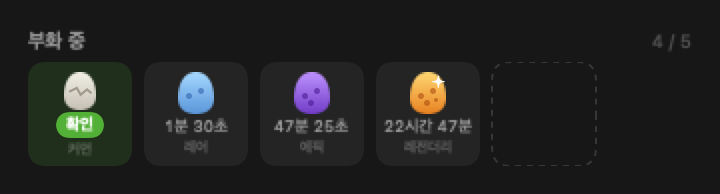
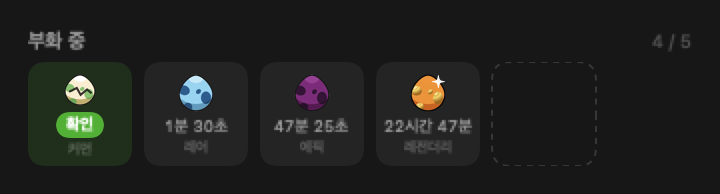
feat: replace the drawn egg with illustrated art
The eggs were SwiftUI shapes — an oval, a gradient and a few dots. Swap in
the four illustrations, which read as eggs rather than as approximations of
one, and drop EggShape now that nothing draws it. The crack stays a drawn
overlay: it marks "ready to open" rather than being part of the shell, and
per-grade cracked art would double the files.

Stripping the white background needed care twice over. A global white key
punches through the Common egg's own white highlight, so the background is
removed by flood fill from the border instead. And NSBitmapImageRep is
premultiplied, so writing (255,255,255,0) is not a transparent pixel but an
invalid one that normalises back to opaque white — which is exactly what
happened on the first pass, leaving a white box around every egg.

Guarded by tests that read the shipped files: every grade has distinct art,
all four corners are transparent, and the Common egg's interior highlight
survived.

diff --git a/Sources/PokeDexBar/UI/EggIcon.swift b/Sources/PokeDexBar/UI/EggIcon.swift
@@ -1,74 +1,30 @@
 import SwiftUI
 
-/// 등급별 알 모양. 슬롯에서 남은 시간을 읽기 전에 **무엇을 기다리고 있는지** 먼저 보이게 한다.
-/// 색만 바꾸지 않고 무늬 수도 함께 늘린다 — 색약이거나 작은 타일에서도 구분되게.
+/// 등급별 알. **그림 파일**이다(`Resources/eggs/egg-<등급>.png`) — 예전에는 SwiftUI 도형으로
+/// 껍질과 무늬를 직접 그렸는데, 손으로 그린 일러스트가 훨씬 알처럼 보인다.
 ///
-/// 전부 순수 SwiftUI 도형이다. `.brightness` 같은 CALayer 필터를 쓰면 스크린샷 생성기의
-/// 오프스크린 렌더에서 통째로 사라진다(도감 실루엣에서 실제로 겪었다).
+/// 금 간 표시(`cracked`)만 그림 위에 도형으로 얹는다. 등급마다 금 간 그림을 따로 두면 파일이
+/// 여덟 장이 되고, 금은 "지금 확인할 수 있다"는 상태 표시라 껍질 무늬와 성격이 다르다.
+///
+/// 그림 로딩은 `RibbonIcon` 과 같은 방식이다 — 배포 `.app` 에서는 `Bundle.module` 을 못 쓴다.
 struct EggIcon: View {
     let grade: Grade
     var size: CGFloat = 20
     /// 부화 시각이 지났으면 금이 간 모습으로 — 슬롯을 훑을 때 "확인해야 할 것"이 즉시 보인다.
     var cracked: Bool = false
 
-    /// 껍질 색(위·아래). 위가 밝고 아래가 짙어 입체로 보인다.
-    private var shell: (Color, Color) {
-        switch grade {
-        case .common: (Color(red: 0.96, green: 0.95, blue: 0.92),
-                       Color(red: 0.82, green: 0.80, blue: 0.76))
-        case .rare: (Color(red: 0.71, green: 0.88, blue: 1.00),
-                     Color(red: 0.42, green: 0.66, blue: 0.88))
-        case .epic: (Color(red: 0.80, green: 0.66, blue: 1.00),
-                     Color(red: 0.53, green: 0.34, blue: 0.82))
-        case .legendary: (Color(red: 1.00, green: 0.87, blue: 0.52),
-                          Color(red: 0.93, green: 0.58, blue: 0.16))
-        }
-    }
-
-    /// 무늬 색 — 껍질보다 진하게.
-    private var speckle: Color {
-        switch grade {
-        case .common: Color(red: 0.66, green: 0.63, blue: 0.58)
-        case .rare: Color(red: 0.20, green: 0.45, blue: 0.72)
-        case .epic: Color(red: 0.34, green: 0.16, blue: 0.62)
-        case .legendary: Color(red: 0.72, green: 0.35, blue: 0.03)
-        }
-    }
-
-    /// 등급이 오를수록 무늬가 늘어난다 — 색과 별개로 세어서 구분할 수 있게.
-    private var speckleCount: Int {
-        switch grade {
-        case .common: 0
-        case .rare: 2
-        case .epic: 3
-        case .legendary: 4
-        }
-    }
-
-    /// 무늬 위치(알 폭·높이에 대한 비율)와 지름 비율. 난수를 안 쓴다 — 같은 등급의 알은
-    /// 언제나 같은 얼굴이어야 슬롯을 훑을 때 무늬 수가 정보로 읽힌다.
-    nonisolated static func speckleLayout(_ index: Int) -> (x: Double, y: Double, r: Double) {
-        let table: [(Double, Double, Double)] = [
-            (0.34, 0.58, 0.17), (0.63, 0.44, 0.13), (0.48, 0.74, 0.11), (0.70, 0.66, 0.09),
-        ]
-        return table[index % table.count]
-    }
+    /// 금 색 — 껍질 위에 얹히므로 어느 등급에서도 보이도록 어둡게.
+    private var crackColor: Color { Color(red: 0.16, green: 0.14, blue: 0.13) }
 
     var body: some View {
         ZStack {
-            // 알 실루엣 — 위가 좁고 아래가 둥근 타원.
-            EggShape()
-                .fill(LinearGradient(colors: [shell.0, shell.1],
-                                     startPoint: .top, endPoint: .bottom))
-            ForEach(0..<speckleCount, id: \.self) { index in
-                let spot = Self.speckleLayout(index)
-                Circle()
-                    .fill(speckle.opacity(0.55))
-                    .frame(width: size * spot.r, height: size * spot.r)
-                    .offset(x: size * (spot.x - 0.5), y: size * (spot.y - 0.5))
+            if let image = Self.image(for: grade) {
+                Image(nsImage: image)
+                    .resizable().interpolation(.high)
+                    .scaledToFit()
             }
             if cracked {
-                CrackShape().stroke(speckle.opacity(0.85), lineWidth: max(1, size * 0.06))
+                CrackShape().stroke(crackColor.opacity(0.9), lineWidth: max(1, size * 0.055))
             }
             if grade == .legendary {
                 // 전설만 반짝임 하나 — 슬롯 줄에서 눈이 먼저 가는 자리가 하나는 있어야 한다.
@@ -80,28 +36,33 @@ struct EggIcon: View {
         }
         .frame(width: size * 0.82, height: size)
     }
-}
 
-/// 알 윤곽 — 아래가 크고 위가 좁은 달걀형.
-struct EggShape: Shape {
-    func path(in rect: CGRect) -> Path {
-        var path = Path()
-        let w = rect.width, h = rect.height
-        path.move(to: CGPoint(x: rect.midX, y: rect.minY))
-        path.addCurve(to: CGPoint(x: rect.maxX, y: rect.minY + h * 0.62),
-                      control1: CGPoint(x: rect.midX + w * 0.34, y: rect.minY),
-                      control2: CGPoint(x: rect.maxX, y: rect.minY + h * 0.28))
-        path.addCurve(to: CGPoint(x: rect.midX, y: rect.maxY),
-                      control1: CGPoint(x: rect.maxX, y: rect.minY + h * 0.88),
-                      control2: CGPoint(x: rect.midX + w * 0.30, y: rect.maxY))
-        path.addCurve(to: CGPoint(x: rect.minX, y: rect.minY + h * 0.62),
-                      control1: CGPoint(x: rect.midX - w * 0.30, y: rect.maxY),
-                      control2: CGPoint(x: rect.minX, y: rect.minY + h * 0.88))
-        path.addCurve(to: CGPoint(x: rect.midX, y: rect.minY),
-                      control1: CGPoint(x: rect.minX, y: rect.minY + h * 0.28),
-                      control2: CGPoint(x: rect.midX - w * 0.34, y: rect.minY))
-        path.closeSubpath()
-        return path
+    /// 등급별 그림. 한 번 읽으면 캐시한다 — 박스·슬롯 그리드가 칸마다 디스크를 때리지 않게.
+    @MainActor private static var cache: [Grade: NSImage] = [:]
+
+    @MainActor static func image(for grade: Grade) -> NSImage? {
+        if let cached = cache[grade] { return cached }
+        guard let url = resourceURL(for: grade), let image = NSImage(contentsOf: url) else {
+            return nil
+        }
+        cache[grade] = image
+        return image
+    }
+
+    /// 리소스 번들 위치. 배포 `.app` 에서 `Bundle.module` 이 찾는 자리(번들 루트)에는 번들을 둘 수
+    /// 없다 — codesign 이 거부한다. 그래서 서명 가능한 `Contents/Resources/` 를 직접 찾는다.
+    /// (`RibbonIcon.resourceURL` 과 같은 이유·같은 모양.)
+    nonisolated static func resourceURL(for grade: Grade) -> URL? {
+        let name = "egg-\(grade.rawValue)"
+        guard AppEnv.isBundledApp else {
+            return Bundle.module.url(forResource: name, withExtension: "png", subdirectory: "eggs")
+                ?? Bundle.module.url(forResource: name, withExtension: "png")
+        }
+        let bundlePath = Bundle.main.bundleURL
+            .appendingPathComponent("Contents/Resources/PokeDexBar_PokeDexBar.bundle")
+        guard let bundle = Bundle(path: bundlePath.path) else { return nil }
+        return bundle.url(forResource: name, withExtension: "png", subdirectory: "eggs")
+            ?? bundle.url(forResource: name, withExtension: "png")
     }
 }
 

diff --git a/Tests/PokeDexBarTests/RevealMotionTests.swift b/Tests/PokeDexBarTests/RevealMotionTests.swift
@@ -119,3 +119,49 @@ final class HatchRevealTests: XCTestCase {
         XCTAssertGreaterThan(host.fittingSize.height, 0)
     }
 }
+
+/// 알 그림 — 등급마다 파일이 하나씩 있어야 한다. 하나라도 없으면 그 등급 알이 **아무것도 안
+/// 그려진 채** 슬롯에 앉는다(`EggIcon` 은 그림이 없으면 조용히 비운다).
+@MainActor
+final class EggArtTests: XCTestCase {
+    func testEveryGradeHasArt() {
+        for grade in Grade.allCases {
+            XCTAssertNotNil(EggIcon.resourceURL(for: grade), "\(grade) 알 그림 경로가 없다")
+            XCTAssertNotNil(EggIcon.image(for: grade), "\(grade) 알 그림을 못 읽는다")
+        }
+    }
+
+    /// 등급마다 다른 그림이어야 한다 — 같은 파일을 가리키면 슬롯에서 등급을 구분할 수 없다.
+    func testGradesUseDistinctArt() {
+        let names = Grade.allCases.compactMap { EggIcon.resourceURL(for: $0)?.lastPathComponent }
+        XCTAssertEqual(Set(names).count, Grade.allCases.count, names.description)
+    }
+
+    /// **배경이 투명해야 한다.** 원본은 흰 배경 위에 그려져 있어, 그대로 실으면 어두운 팝오버에
+    /// 흰 사각형이 뜬다. 네 귀퉁이가 모두 비어 있는지로 확인한다.
+    func testTheBackgroundWasRemoved() throws {
+        for grade in Grade.allCases {
+            let url = try XCTUnwrap(EggIcon.resourceURL(for: grade))
+            let rep = try XCTUnwrap(NSBitmapImageRep(data: try Data(contentsOf: url)))
+            XCTAssertTrue(rep.hasAlpha, "\(grade) 그림에 알파 채널이 없다")
+            let corners = [(0, 0), (rep.pixelsWide - 1, 0),
+                           (0, rep.pixelsHigh - 1), (rep.pixelsWide - 1, rep.pixelsHigh - 1)]
+            for (x, y) in corners {
+                let alpha = try XCTUnwrap(rep.colorAt(x: x, y: y)).alphaComponent
+                XCTAssertEqual(alpha, 0, accuracy: 0.02,
+                               "\(grade) 그림의 모서리(\(x),\(y))가 불투명하다 — 흰 배경이 남았다")
+            }
+        }
+    }
+
+    /// 안쪽 하이라이트까지 뚫리면 안 된다 — 커먼 알은 위쪽이 순백이라 흰색을 통째로 지우면
+    /// 구멍이 난다(테두리에서 번지는 flood fill 을 쓴 이유다).
+    func testTheInteriorSurvived() throws {
+        let url = try XCTUnwrap(EggIcon.resourceURL(for: .common))
+        let rep = try XCTUnwrap(NSBitmapImageRep(data: try Data(contentsOf: url)))
+        // 알 위쪽 하이라이트 자리 — 가로 중앙, 세로 20% 지점.
+        let alpha = try XCTUnwrap(rep.colorAt(x: rep.pixelsWide / 2,
+                                              y: rep.pixelsHigh / 5)).alphaComponent
+        XCTAssertEqual(alpha, 1, accuracy: 0.02, "커먼 알 안쪽 흰 하이라이트가 뚫렸다")
+    }
+}
